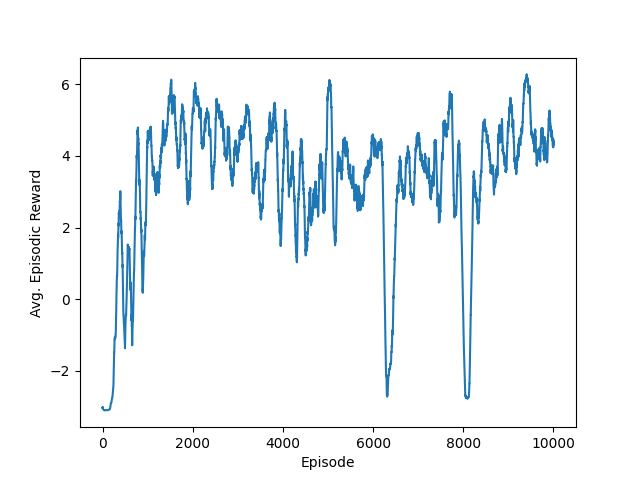
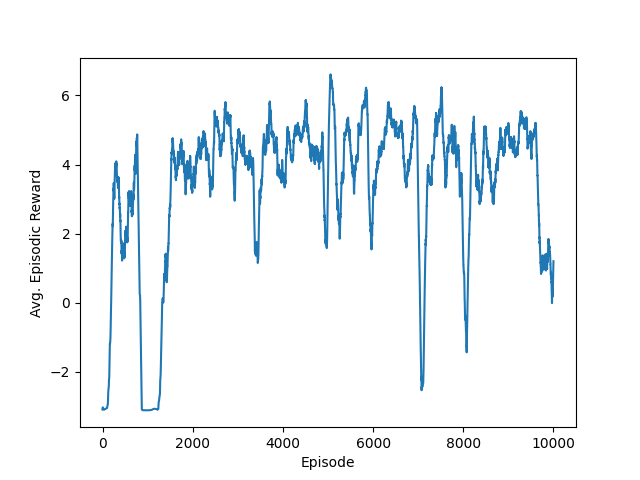
fix regularizer initialization and add some good plots and runs

diff --git a/DDPG.py b/DDPG.py
@@ -29,11 +29,13 @@ def get_actor():
     return model
 
 
-def get_actor_separate(train_acceleration=True, train_direction=True, regularizer=0):
+def get_actor_separate(train_acceleration=True, train_direction=True, regularizer=None):
     # the actor has separate towers for action and speed
     # in this way we can train them separately
     if regularizer is not None:
         l2 = regularizers.l2(regularizer)
+    else:
+        l2 = None
 
     inputs = layers.Input(shape=(num_states,))
 
@@ -74,7 +76,8 @@ def get_actor_separate(train_acceleration=True, train_direction=True, regularize
 def get_critic(regularizer=None):
     if regularizer is not None:
         l2 = regularizers.l2(regularizer)
-
+    else:
+        l2 = None
     # State as input
     state_input = layers.Input(shape=(num_states,))
     state_out = layers.Dense(16,
@@ -166,7 +169,7 @@ class Buffer:
             vae.fit(x=samples,
                     y=samples,
                     epochs=100,
-                    batch_size=32,
+                    batch_size=96,
                     shuffle=True,
                     validation_split=0.25,
                     callbacks=[callback])
